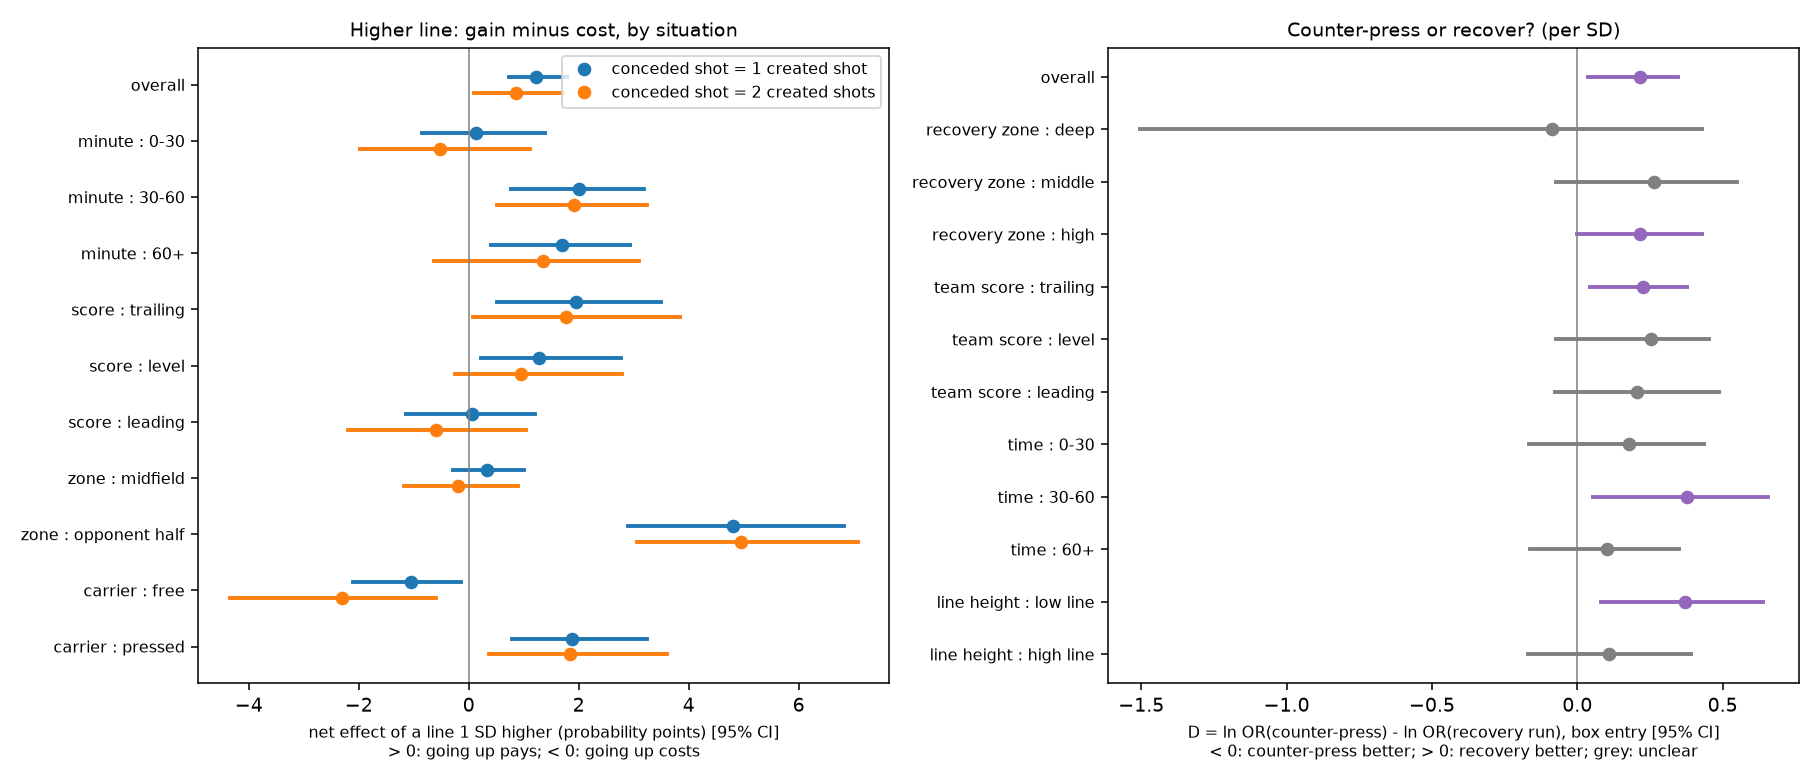
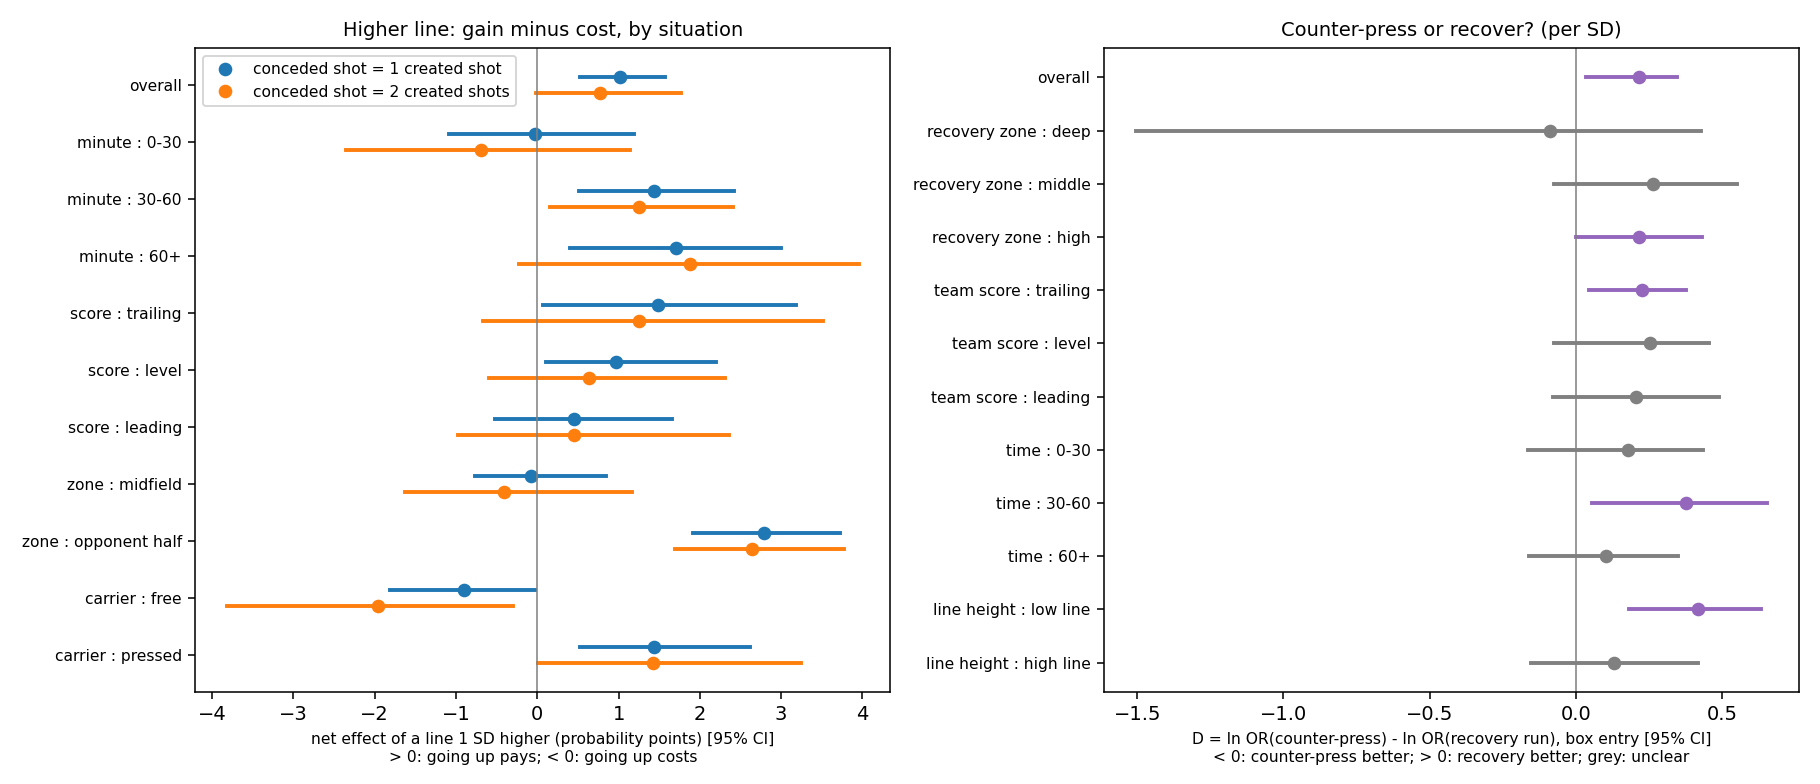
Remplacer les sorties publiées par celles du run complet (tableaux, figures, outil, rapport) et vérifier leur reproduction

diff --git a/docs/outil_decision.html b/docs/outil_decision.html
@@ -48,7 +48,7 @@ const I = {
 fr:{h1:"La ligne haute est un pari sur le porteur",sub:"Elle rapporte s'il est pressé, elle coûte s'il est libre. Association observée sur 20 matchs de l'A-League 2024/25 (tracking SkillCorner) ; chaque chiffre porte son intervalle et son niveau de preuve.",
  fast:"<b>Mode rapide (4 matchs)</b> : test de bon fonctionnement, résultats non représentatifs. Lancer <code>python reproduce.py --mode full</code>.",
  t1:"1. Décrire la situation",t2:"2. Après une perte : contre-presser ou se replier ?",t3:"3. Le coût en course de repli",t4:"4. Peut-on croire les positions ?",t5:"5. Body Pose (exploratoire)",t6:"6. Un moment réel : ce que la caméra voit et ce qu’elle ne voit pas",
- mv_sub:"Les disques rouille sont des défenseurs non observés à cet instant : leur position est estimée, le disque est l’erreur probable à 90 %. Le mur est la hauteur de ligne (4 défenseurs de champ les plus bas), la bande son incertitude. Glisser pour tourner la vue.",
+ mv_sub:"La ligne est la moyenne des 4 défenseurs de champ les plus bas (le mur ; la bande est son incertitude). Anneau vert : l’un des 4, observé par la caméra ; disque rouille : l’un des 4, position estimée (le disque est l’erreur probable à 90 %). Le but défendu est au fond. Glisser pour tourner la vue.",
  mv_play:"Lecture",mv_pause:"Pause",mv_rs:"Retour au début",mv_leg:"Gris : équipe qui attaque · vert d’eau : équipe qui défend · noir : balle · tête pleine : joueur détecté par la caméra · tête creuse et estompée : position estimée (non observée).",mv_time:(a,b)=>"temps <b>"+a+" / "+b+" s</b>",mv_unc:"disques d’incertitude",mv_obs:k=>"4 plus bas observés : <b>"+k+" sur 4</b>",mv_ls:s=>"incertitude de la ligne : <b>± "+s+" m</b>",
  mv_none:"Aucun moment illustratif dans cette exécution.",mv_note:"Moment choisi de façon déterministe pour illustrer (ligne plus haute que d’habitude, porteur libre, plusieurs défenseurs non observés) : il illustre, il ne prouve rien.",
  l_porteur:"Porteur",l_zone:"Zone de balle",l_score:"Score de l'équipe qui défend",l_minute:"Moment du match (min)",l_w:"Poids d'un tir concédé (en tirs créés)",
@@ -72,7 +72,7 @@ fr:{h1:"La ligne haute est un pari sur le porteur",sub:"Elle rapporte s'il est p
 en:{h1:"The high line is a bet on the ball carrier",sub:"It pays if he is pressed, it costs if he is free. Association observed over 20 A-League 2024/25 matches (SkillCorner tracking); every figure carries its interval and its level of evidence.",
  fast:"<b>Fast mode (4 matches)</b>: smoke test only, results not representative. Run <code>python reproduce.py --mode full</code>.",
  t1:"1. Describe the situation",t2:"2. After a loss: counter-press or recover?",t3:"3. The running cost of recovering",t4:"4. Can we trust the positions?",t5:"5. Body Pose (exploratory)",t6:"6. A real moment: what the camera sees and what it does not",
- mv_sub:"Rust discs are defenders not observed at that instant: their position is estimated, the disc is the probable error at 90%. The wall is the line height (4 deepest outfield defenders), the band its uncertainty. Drag to rotate the view.",
+ mv_sub:"The line is the mean of the 4 deepest outfield defenders (the wall; the band is its uncertainty). Green ring: one of the 4, observed by the camera; rust disc: one of the 4, estimated position (the disc is the probable error at 90%). The defended goal is at the far end. Drag to rotate the view.",
  mv_play:"Play",mv_pause:"Pause",mv_rs:"Back to start",mv_leg:"Grey: attacking team · teal: defending team · black: ball · filled head: player detected by the camera · hollow, faded head: estimated (unobserved) position.",mv_time:(a,b)=>"time <b>"+a+" / "+b+" s</b>",mv_unc:"uncertainty discs",mv_obs:k=>"4 deepest observed: <b>"+k+" of 4</b>",mv_ls:s=>"line uncertainty: <b>± "+s+" m</b>",
  mv_none:"No illustrative moment in this run.",mv_note:"Moment picked deterministically to illustrate (line higher than usual, free carrier, several unobserved defenders): it illustrates, it proves nothing.",
  l_porteur:"Ball carrier",l_zone:"Ball zone",l_score:"Defending team's score",l_minute:"Match time (min)",l_w:"Weight of a conceded shot (in created shots)",
@@ -137,6 +137,7 @@ function paint(){const l=L();document.documentElement.lang=LANG;
 
 const MV={az:0,el:.62,t:0,play:true,unc:true,last:0,ready:false};
 function moment(){const M=DATA.moment,l=L(),box=$("mvbox");
+  if(M&&!M._f){const Lp0=M.meta.pitch[0],fl=a=>a.map(v=>v==null?null:Lp0-v),ng=a=>a.map(v=>v==null?null:-v);M.players.forEach(p=>{p.d0=p.x.slice();p.x=fl(p.x);p.y=ng(p.y)});M.ball.x=fl(M.ball.x);M.ball.y=ng(M.ball.y);M.line=fl(M.line);M._f=1}
   if(!M){box.innerHTML="<p class='note'>"+l.mv_none+"</p>";return}
   box.innerHTML="<p class='note'>"+l.mv_sub+"</p><canvas id='mv' width='960' height='600'></canvas><div class='ctl'><button id='mvp'></button><button id='mv0'>"+l.mv_rs+"</button><input id='mvs' type='range' min='0' max='"+(M.meta.n-1)+"' step='0.01' value='"+MV.t+"'><label style='display:flex;gap:6px;align-items:center'><input id='mvu' type='checkbox' "+(MV.unc?"checked":"")+" style='width:auto;margin:0'>"+l.mv_unc+"</label></div><div class='mvr' id='mvr'></div><p class='note'>"+l.mv_leg+"</p><p class='note'>"+l.mv_note+"</p>";
   const cv=$("mv");$("mvp").textContent=MV.play?l.mv_pause:l.mv_play;
@@ -153,27 +154,28 @@ function lerp(a,b,f){return a==null||b==null?null:a+(b-a)*f}
 function drawMoment(){const M=DATA.moment,cv=$("mv");if(!M||!cv)return;const g=cv.getContext("2d"),W=cv.width,H=cv.height,cs=getComputedStyle(document.documentElement);
   const col=n=>cs.getPropertyValue(n).trim(),teal=col("--ok"),rust=col("--ko"),ink=col("--fg"),grey=col("--mut"),line=col("--line"),bg=col("--bg");
   const i0=Math.min(M.meta.n-2,Math.floor(MV.t)),f=MV.t-i0,i1=i0+1,near=f<.5?i0:i1;
-  const cx=66,A=MV.az,E=MV.el,fx=Math.cos(A),fy=Math.sin(A),rx=Math.sin(A),ry=-Math.cos(A),D=95,F0=95,K=W/84;
+  const cx=64,A=MV.az,E=MV.el,fx=Math.cos(A),fy=Math.sin(A),rx=Math.sin(A),ry=-Math.cos(A),D=95,F0=95,K=W/84;
   const P=(x,y,z)=>{const dx=x-cx,w=dx*fx+y*fy,u=dx*rx+y*ry,v=z*Math.cos(E)+w*Math.sin(E),d=w*Math.cos(E)-z*Math.sin(E),s=F0/(D+d);return[W/2+u*s*K,H*.62-v*s*K,s,d]};
   g.clearRect(0,0,W,H);g.fillStyle=bg;g.fillRect(0,0,W,H);
-  const X0=34,Lp=M.meta.pitch[0],hw=34;
+  const X0=22,Lp=M.meta.pitch[0],hw=34;
   const poly=(pts,fill,stroke,alpha,dash)=>{g.beginPath();pts.forEach((q,k)=>{const p=P(q[0],q[1],q[2]||0);k?g.lineTo(p[0],p[1]):g.moveTo(p[0],p[1])});g.closePath();if(fill){g.globalAlpha=alpha==null?1:alpha;g.fillStyle=fill;g.fill();g.globalAlpha=1}if(stroke){g.setLineDash(dash||[]);g.strokeStyle=stroke;g.lineWidth=1.5;g.stroke();g.setLineDash([])}};
   const seg=(a,b)=>{const p=P(a[0],a[1],0),q=P(b[0],b[1],0);g.beginPath();g.moveTo(p[0],p[1]);g.lineTo(q[0],q[1]);g.strokeStyle=line;g.lineWidth=1.5;g.stroke()};
-  poly([[X0,-hw-3],[Lp+3,-hw-3],[Lp+3,hw+3],[X0,hw+3]],line,null,.45);
+  poly([[X0,-hw],[Lp,-hw],[Lp,hw],[X0,hw]],line,null,.45);
   seg([X0,-hw],[Lp,-hw]);seg([X0,hw],[Lp,hw]);seg([Lp,-hw],[Lp,hw]);seg([Lp/2,-hw],[Lp/2,hw]);
   for(const[dd,w]of[[16.5,20.16],[5.5,9.16]]){seg([Lp-dd,-w],[Lp-dd,w]);seg([Lp,-w],[Lp-dd,-w]);seg([Lp,w],[Lp-dd,w])}
   g.beginPath();for(let k=0;k<=48;k++){const t=k/48*2*Math.PI,p=P(Lp/2+9.15*Math.cos(t),9.15*Math.sin(t),0);k?g.lineTo(p[0],p[1]):g.moveTo(p[0],p[1])}g.strokeStyle=line;g.stroke();
   const Ln=lerp(M.line[i0],M.line[i1],f),Sd=lerp(M.sd[i0],M.sd[i1],f);
   if(Ln!=null){const s=Sd||0;poly([[Ln-s,-hw],[Ln+s,-hw],[Ln+s,hw],[Ln-s,hw]],rust,null,.22);poly([[Ln,-hw,0],[Ln,hw,0],[Ln,hw,3.2],[Ln,-hw,3.2]],ink,ink,.1)}
   const items=[];
-  M.players.forEach(p=>{const x=lerp(p.x[i0],p.x[i1],f),y=lerp(p.y[i0],p.y[i1],f);if(x==null||y==null||x<X0)return;items.push({p,x,y,seen:p.det[near]===1,r:p.r[near]})});
-  if(MV.unc)items.forEach(o=>{if(o.p.side==="d"&&!o.seen&&!o.p.gk){const pts=[];for(let k=0;k<36;k++){const t=k/36*2*Math.PI;pts.push([o.x+Math.max(o.r,.4)*Math.cos(t),o.y+Math.max(o.r,.4)*Math.sin(t),0.02])}poly(pts,rust,rust,.28,[5,4])}});
+  const rk=M.players.filter(p=>p.side==="d"&&!p.gk&&p.d0[near]!=null).sort((a,b)=>a.d0[near]-b.d0[near]).slice(0,4);
+  M.players.forEach(p=>{const x=lerp(p.x[i0],p.x[i1],f),y=lerp(p.y[i0],p.y[i1],f);if(x==null||y==null||x<X0)return;items.push({p,x,y,seen:p.det[near]===1,r:p.r[near],deep:rk.indexOf(p)>=0})});
+  if(MV.unc)items.forEach(o=>{if(o.deep&&o.seen){const pts=[];for(let k=0;k<30;k++){const t=k/30*2*Math.PI;pts.push([o.x+1.5*Math.cos(t),o.y+1.5*Math.sin(t),0.04])}poly(pts,null,teal,1)}if(o.deep&&!o.seen){const pts=[];for(let k=0;k<36;k++){const t=k/36*2*Math.PI;pts.push([o.x+Math.max(o.r,.4)*Math.cos(t),o.y+Math.max(o.r,.4)*Math.sin(t),0.02])}poly(pts,rust,rust,.28,[5,4])}});
   items.map(o=>({o,d:P(o.x,o.y,0)[3]})).sort((a,b)=>b.d-a.d).forEach(({o})=>{const a=P(o.x,o.y,0),b=P(o.x,o.y,1.65),h=P(o.x,o.y,1.95),c=o.p.side==="d"?teal:grey;
     g.globalAlpha=!o.seen?.55:.95;g.strokeStyle=c;g.lineCap="round";g.lineWidth=Math.max(3,5.5*a[2]);g.beginPath();g.moveTo(a[0],a[1]);g.lineTo(b[0],b[1]);g.stroke();
     const hr=Math.max(3,4.6*a[2]);g.beginPath();g.arc(h[0],h[1],hr,0,7);if(o.seen){g.fillStyle=c;g.fill()}else{g.fillStyle=bg;g.fill();g.strokeStyle=c;g.lineWidth=2;g.stroke()}g.globalAlpha=1});
   const bx=lerp(M.ball.x[i0],M.ball.x[i1],f),by=lerp(M.ball.y[i0],M.ball.y[i1],f);
-  if(bx!=null){const p=P(bx,by,.3);g.fillStyle=ink;g.beginPath();g.arc(p[0],p[1],Math.max(3,4.5*p[2]),0,7);g.fill()}
-  let k=0,n=0;const deep=M.players.filter(p=>p.side==="d"&&!p.gk&&p.x[near]!=null).map(p=>[p.x[near],p.det[near]]).sort((a,b)=>a[0]-b[0]).slice(0,4);deep.forEach(d=>{k+=d[1];n++});
+  if(bx!=null&&bx>=X0){const p=P(bx,by,.3);g.fillStyle=ink;g.beginPath();g.arc(p[0],p[1],Math.max(3,4.5*p[2]),0,7);g.fill()}
+  let k=0,n=0;const deep=M.players.filter(p=>p.side==="d"&&!p.gk&&p.x[near]!=null).map(p=>[p.x[near],p.det[near]]).sort((a,b)=>b[0]-a[0]).slice(0,4);deep.forEach(d=>{k+=d[1];n++});
   $("mvr").innerHTML=L().mv_time(fmtn(MV.t/M.meta.fps,1),fmtn((M.meta.n-1)/M.meta.fps,1))+" &nbsp;·&nbsp; "+(n===4?L().mv_obs(k)+" &nbsp;·&nbsp; ":"")+(Sd!=null?L().mv_ls(fmtn(Sd,1)):"")}
 function setLang(x){LANG=x;try{localStorage.setItem("hl_lang",x)}catch(e){};paint()}
 $("b_fr").onclick=()=>setLang("fr");$("b_en").onclick=()=>setLang("en");

diff --git a/docs/table_1_en.md b/docs/table_1_en.md
@@ -1,11 +1,12 @@
 | Result | Value [95% CI] | Status |
 |---|---|---|
 | Position reliability | all 10 players observed in 14% of moments; 4 deepest observed in 36%; median line uncertainty 0.9 m | established (measured) |
-| High line, free carrier (net, points per SD) | -1.06 [-2.11 ; -0.14] | established |
-| High line, pressed carrier | +1.88 [+0.79 ; +3.25] | established |
-| High line, ball in opponent half | +4.81 [+2.90 ; +6.83] | established |
-| Score and minute, same situation | interactions: -0.57 [-1.28 ; +0.15] (score), +0.50 [-0.17 ; +1.17] (minute) | inconclusive |
+| High line, free carrier (net, points per SD) | -0.90 [-1.81 ; -0.02] | established |
+| High line, pressed carrier | +1.43 [+0.52 ; +2.62] | established |
+| High line, ball in opponent half | +2.79 [+1.92 ; +3.72] | established |
+| Score and minute, same situation | interactions: -0.18 [-0.83 ; +0.47] (score), +0.65 [-0.12 ; +1.42] (minute) | inconclusive |
 | Counter-press vs recovery run, one player swapped (box-entry OR) | 0.99 [0.85 ; 1.11] | inconclusive (two different functions) |
-| Physical cost: sprint during recovery after a loss (% points per SD of line) | +7.5 [+5.4 ; +9.5] | established |
+| Physical cost: sprint during recovery after a loss (% points per SD of line) | +7.6 [+5.5 ; +9.8] | established |
 | Out-of-sample predictive model | verdict NO-GO | inconclusive |
-| Body Pose (2 matches) | 46 opponent shots; minimum detectable effect 2.2 / 1.6 points | exploratory |
+| Checks (alignment, placebo, provider context) | alignment: 96% of gaps < 0.5 m; placebo: at most 11% of intervals excluding 0 (5% expected); provider possession value: STABLE | to verify |
+| Body Pose (2 matches) | 86 opponent shots; minimum detectable effect 2.3 / 1.9 points | exploratory |
